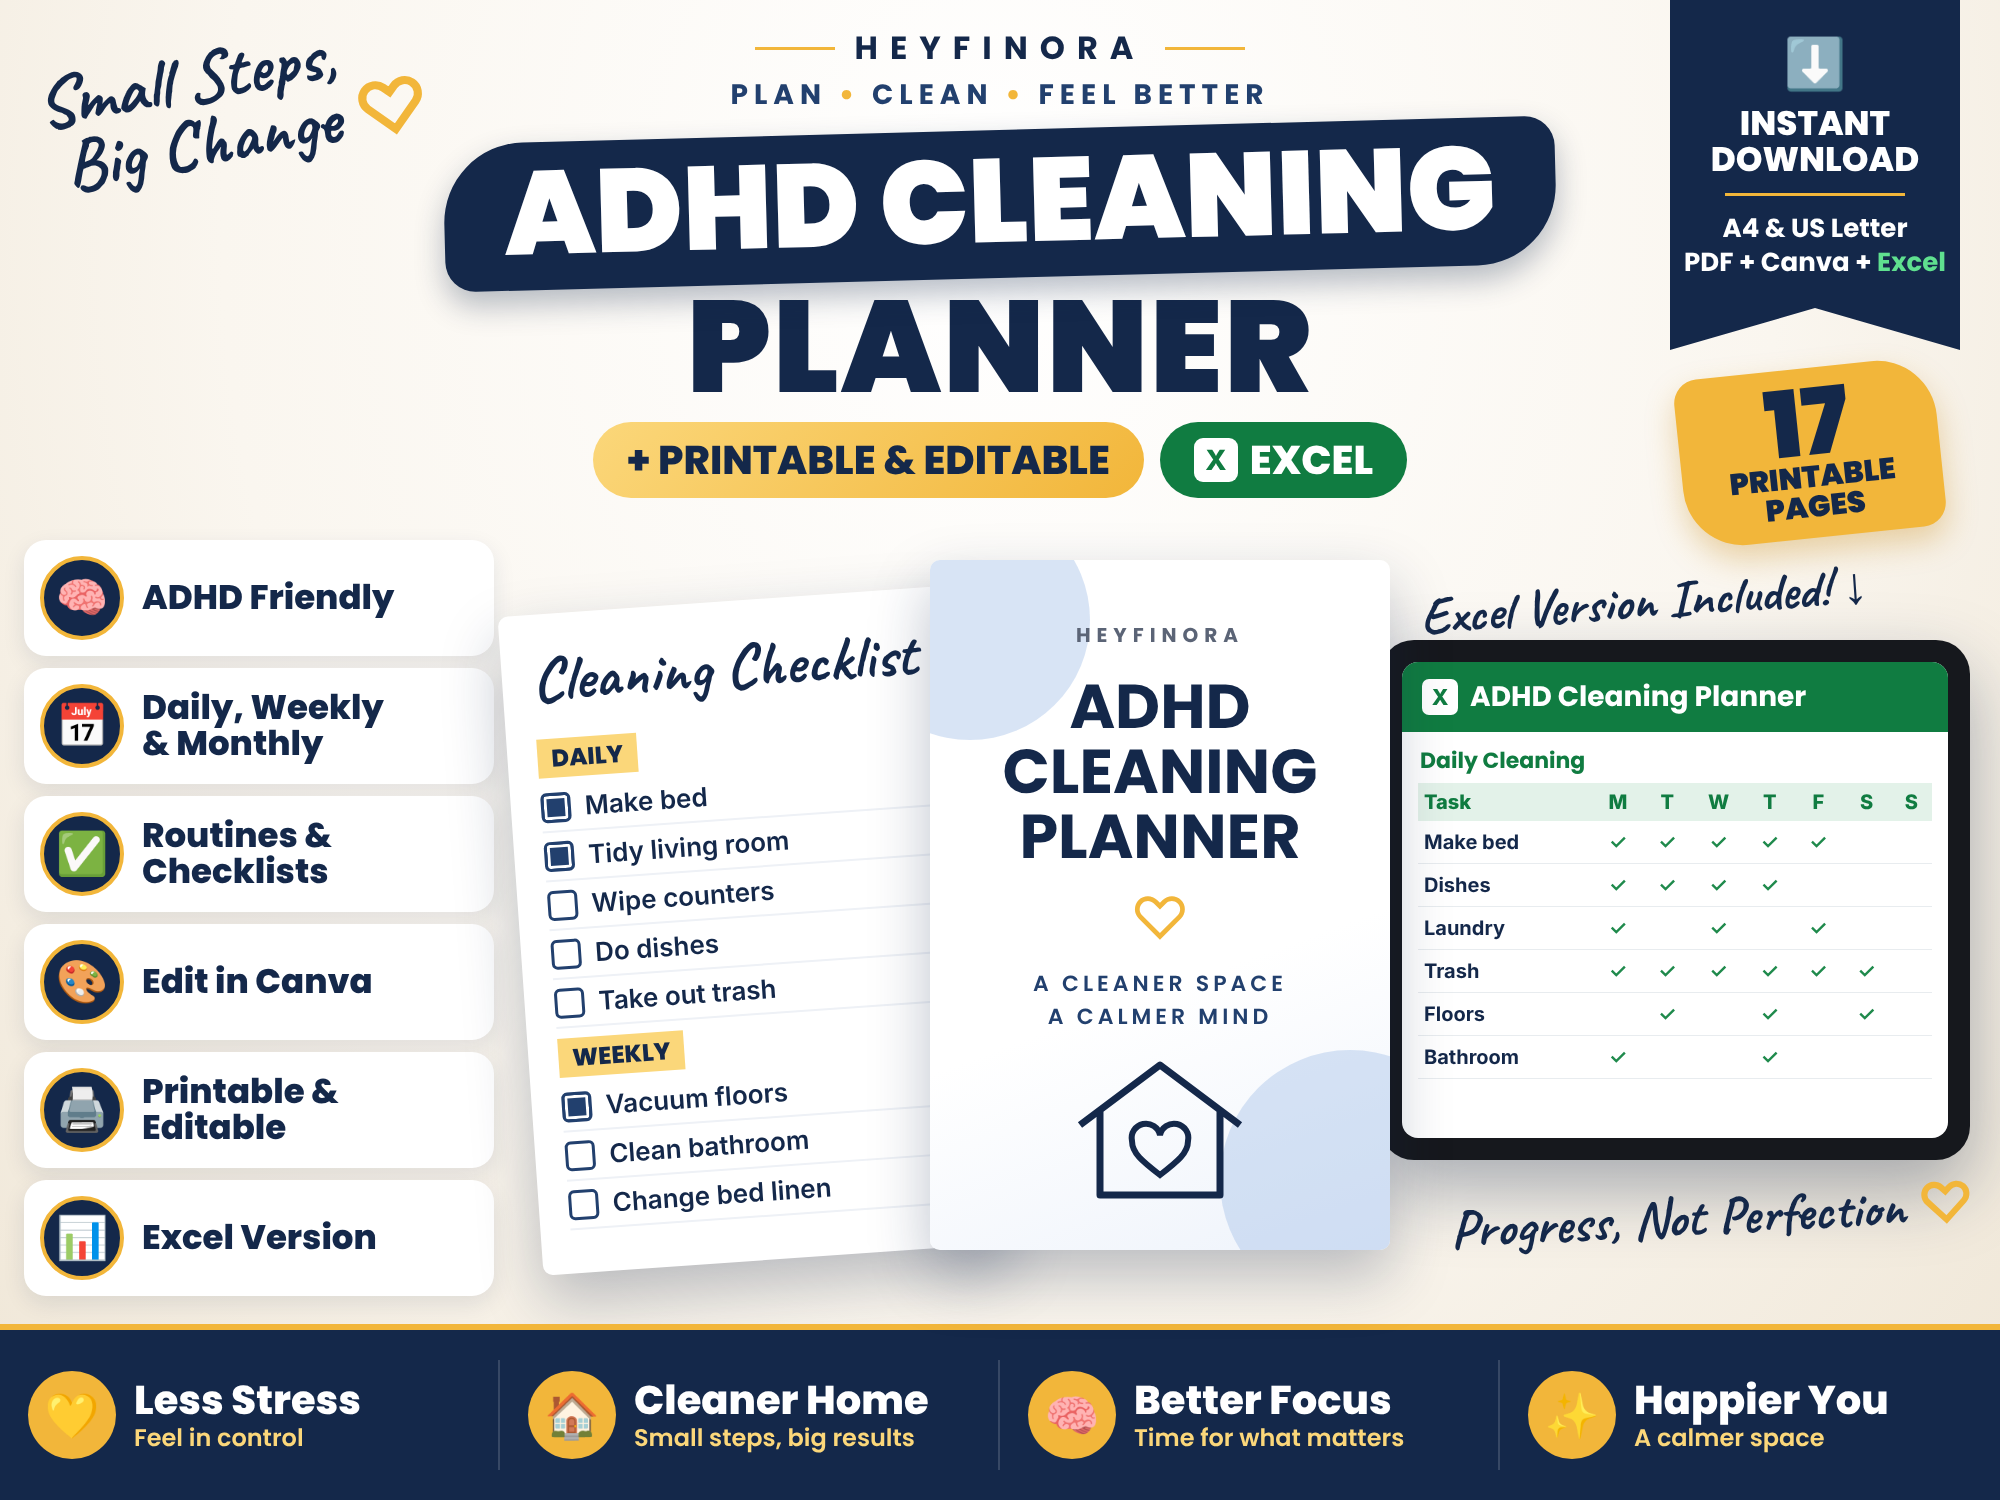
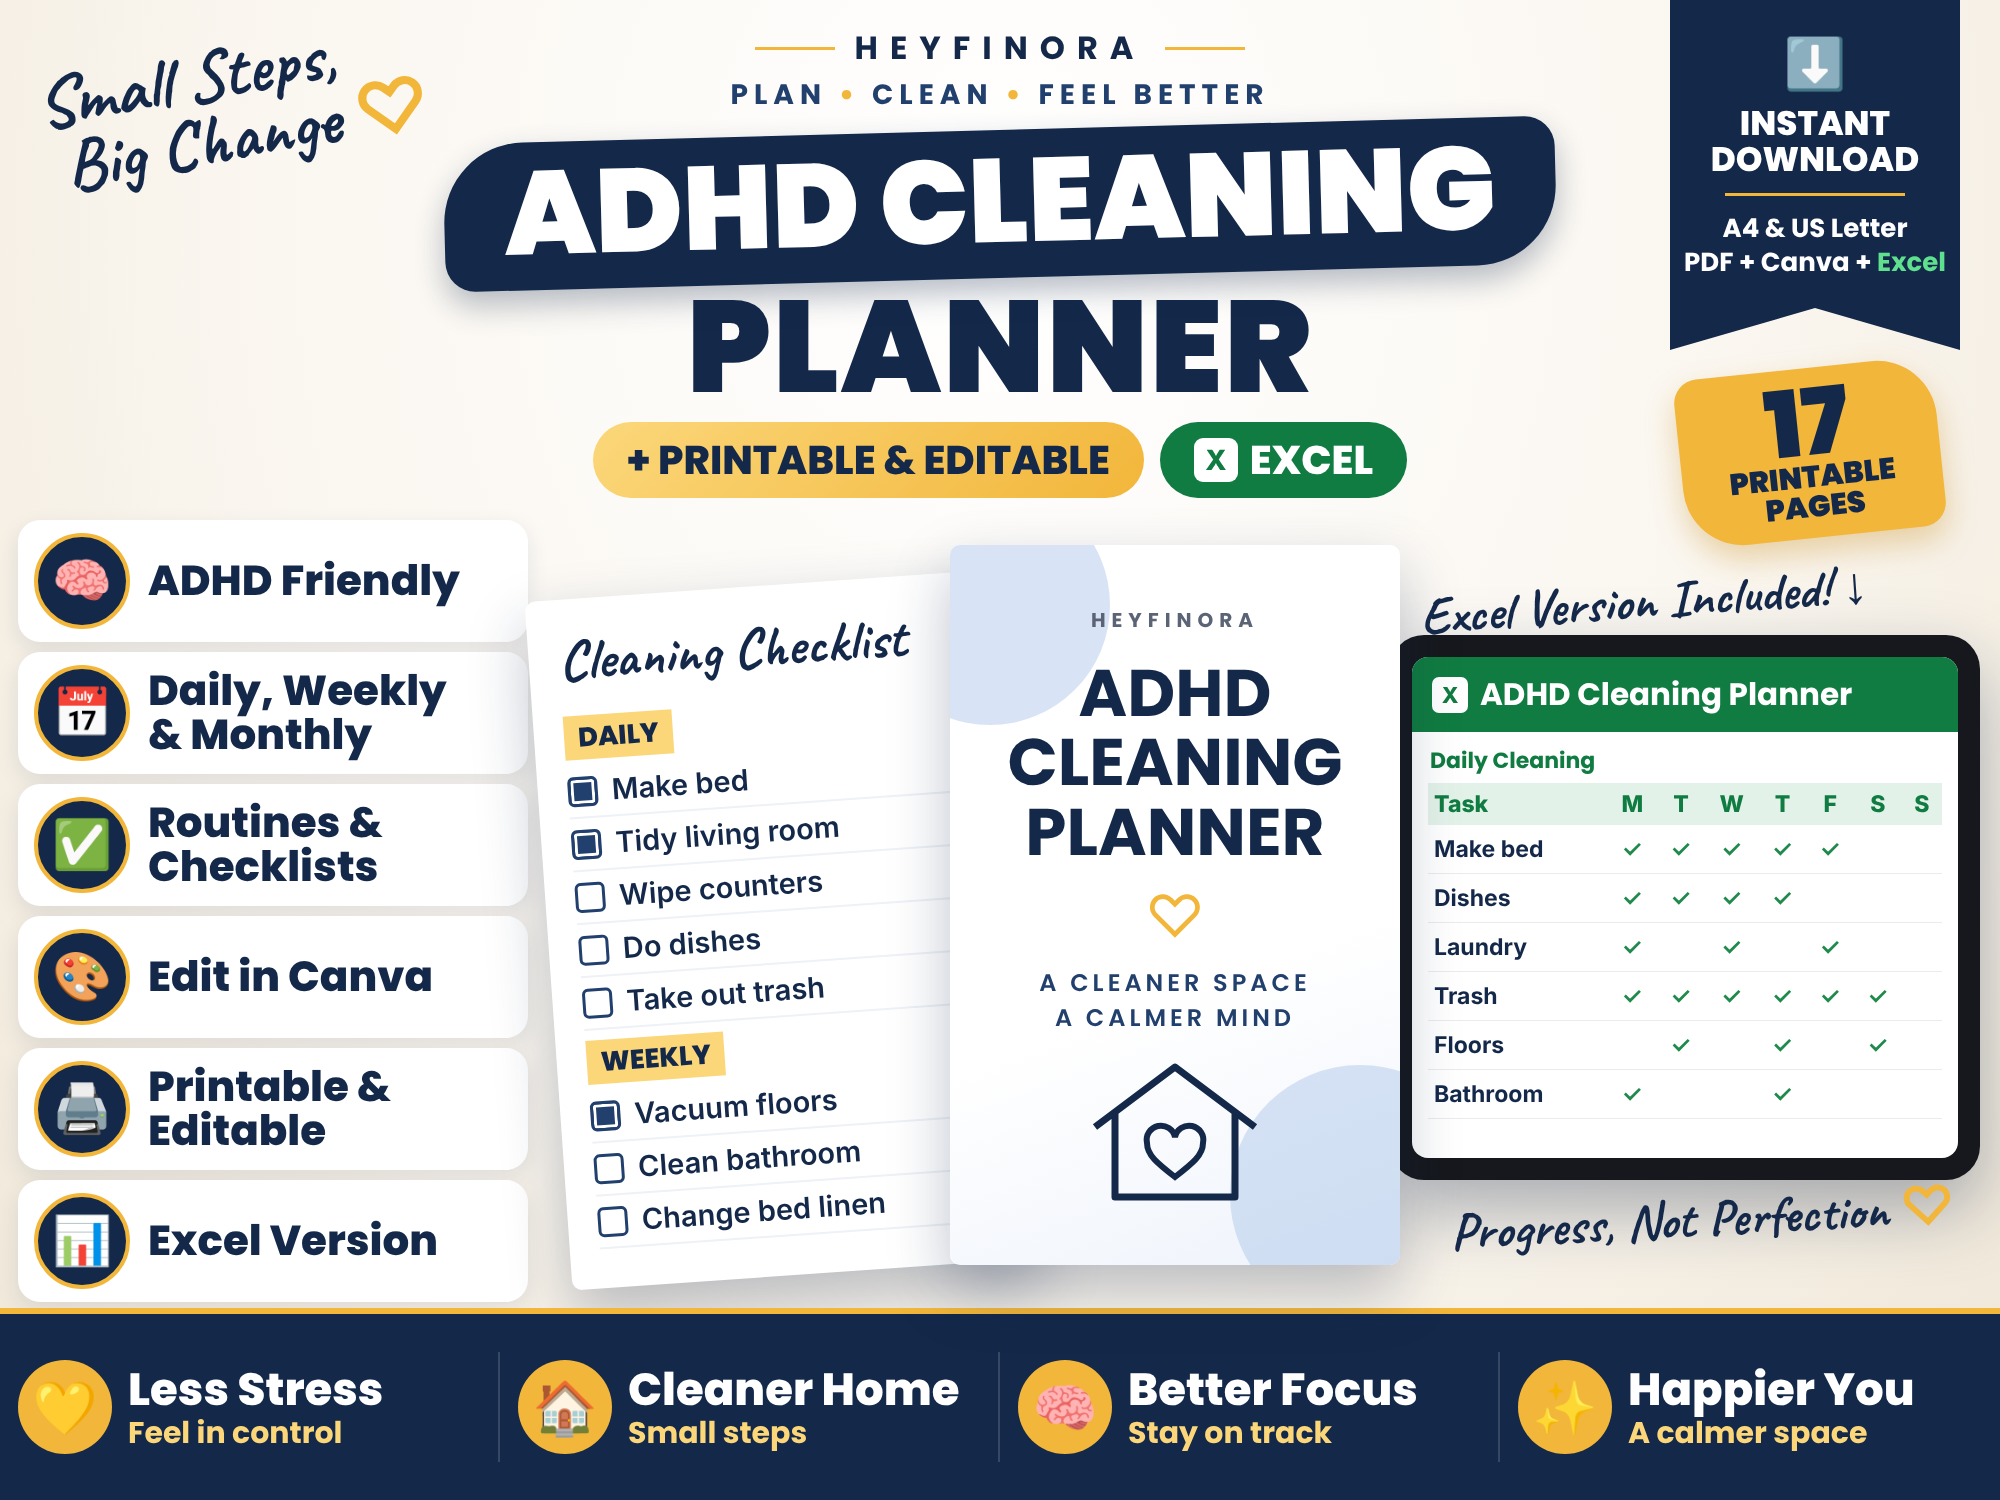
ADHD Cleaning thumbnail: bigger side and bottom text, zoomed pages
Claude-Session: https://claude.ai/code/session_01JXSyMovszCbL9FMwkaUbGU

Changed region(s): [[0.0, 0.3373, 1.0, 0.9813]]

diff --git a/images/src/adhd-cleaning-thumbnail.html b/images/src/adhd-cleaning-thumbnail.html
@@ -27,39 +27,39 @@ body{background:#777;font-family:Inter,sans-serif;color:var(--navy)}
 .badge17{position:absolute;right:60px;top:368px;width:260px;height:170px;background:var(--gold);border-radius:24px 60px 24px 60px;transform:rotate(-6deg);display:grid;place-items:center;text-align:center;color:var(--navy);font-family:Poppins;box-shadow:0 14px 30px rgba(200,140,30,.35);z-index:5}
 .badge17 b{font-size:92px;font-weight:900;line-height:.85;display:block}.badge17 span{font-size:30px;font-weight:900;line-height:1;display:block}
 /* features */
-.feats{position:absolute;left:24px;top:540px;width:470px;display:flex;flex-direction:column;gap:12px}
-.f{display:flex;align-items:center;gap:18px;background:#fff;border-radius:22px;padding:12px 16px;height:116px;box-shadow:0 8px 22px rgba(20,40,74,.1);font-family:Poppins;font-weight:800;font-size:34px;line-height:1.05;color:var(--navy)}
-.f em{font-style:normal;width:84px;height:84px;border-radius:50%;background:var(--navy);display:grid;place-items:center;font-size:42px;flex:none;border:4px solid var(--gold)}
+.feats{position:absolute;left:18px;top:520px;width:510px;display:flex;flex-direction:column;gap:10px}
+.f{display:flex;align-items:center;gap:18px;background:#fff;border-radius:22px;padding:12px 16px;height:122px;box-shadow:0 8px 22px rgba(20,40,74,.1);font-family:Poppins;font-weight:800;font-size:42px;line-height:1.05;color:var(--navy)}
+.f em{font-style:normal;width:96px;height:96px;border-radius:50%;background:var(--navy);display:grid;place-items:center;font-size:48px;flex:none;border:4px solid var(--gold)}
 /* pages */
 .page{position:absolute;background:#fff;border-radius:10px;box-shadow:0 26px 60px rgba(20,40,74,.28);overflow:hidden}
-.ck{left:520px;top:600px;width:470px;height:660px;transform:rotate(-4deg);padding:26px 30px}
-.ck h3{font-family:Caveat;font-size:62px;color:var(--navy);margin-bottom:10px}
-.ck h5{display:inline-block;background:var(--gold2);font-family:Poppins;font-weight:800;font-size:24px;padding:2px 14px;margin:10px 0 6px}
-.ck div{display:flex;align-items:center;gap:14px;font-size:26px;font-weight:600;padding:8px 0;border-bottom:2px solid #EEF1F6}
+.ck{left:548px;top:585px;width:470px;height:690px;transform:rotate(-4deg);padding:26px 30px}
+.ck h3{font-family:Caveat;font-size:56px;color:var(--navy);margin-bottom:10px}
+.ck h5{display:inline-block;background:var(--gold2);font-family:Poppins;font-weight:800;font-size:27px;padding:2px 14px;margin:10px 0 6px}
+.ck div{display:flex;align-items:center;gap:14px;font-size:29px;font-weight:600;padding:8px 0;border-bottom:2px solid #EEF1F6}
 .ck div:before{content:"";width:24px;height:24px;border:3px solid var(--navy2);border-radius:6px;flex:none}
 .ck div.d:before{background:var(--navy2);box-shadow:inset 0 0 0 3px #fff}
-.cv{left:930px;top:560px;width:460px;height:690px;z-index:3;text-align:center;padding-top:60px;background:linear-gradient(160deg,#fff 60%,#EEF3FB)}
+.cv{left:950px;top:545px;width:450px;height:720px;z-index:3;text-align:center;padding-top:60px;background:linear-gradient(160deg,#fff 60%,#EEF3FB)}
 .cv .b1{position:absolute;left:-80px;top:-60px;width:240px;height:240px;border-radius:50%;background:var(--blue);opacity:.45}
 .cv .b2{position:absolute;right:-90px;bottom:-60px;width:260px;height:260px;border-radius:50%;background:var(--blue);opacity:.45}
 .cv small{font-family:Poppins;font-weight:700;font-size:20px;letter-spacing:6px;color:var(--muted);position:relative}
-.cv h2{font-family:Poppins;font-weight:700;font-size:62px;line-height:1.05;margin-top:24px;color:var(--navy);position:relative}
+.cv h2{font-family:Poppins;font-weight:700;font-size:66px;line-height:1.05;margin-top:24px;color:var(--navy);position:relative}
 .cv .h{font-size:58px;color:var(--gold);margin:14px 0}
-.cv p{font-family:Poppins;font-weight:600;font-size:22px;letter-spacing:4px;color:var(--navy2);position:relative}
+.cv p{font-family:Poppins;font-weight:600;font-size:24px;letter-spacing:4px;color:var(--navy2);position:relative}
 /* tablet */
-.tab{position:absolute;left:1380px;top:640px;width:590px;height:520px;background:#16181d;border-radius:34px;padding:22px;box-shadow:0 30px 70px rgba(20,40,74,.35);z-index:2}
+.tab{position:absolute;left:1390px;top:635px;width:590px;height:545px;background:#16181d;border-radius:34px;padding:22px;box-shadow:0 30px 70px rgba(20,40,74,.35);z-index:2}
 .ts{background:#fff;border-radius:16px;height:100%;overflow:hidden}
-.ts .th{background:var(--xl);color:#fff;font-family:Poppins;font-weight:700;font-size:28px;padding:14px 20px;display:flex;align-items:center;gap:12px}
+.ts .th{background:var(--xl);color:#fff;font-family:Poppins;font-weight:700;font-size:31px;padding:14px 20px;display:flex;align-items:center;gap:12px}
 .ts .th i{font-style:normal;background:#fff;color:var(--xl);width:36px;height:36px;border-radius:7px;display:grid;place-items:center;font-family:Inter;font-weight:900;font-size:22px}
 .ts h6{font-family:Poppins;font-size:22px;color:var(--xl);padding:12px 18px 6px}
-table{width:calc(100% - 32px);margin:0 16px;border-collapse:collapse;font-size:20px}
+table{width:calc(100% - 32px);margin:0 16px;border-collapse:collapse;font-size:23px}
 th{background:#E3F2E9;color:var(--xl);padding:7px 6px;font-weight:800;text-align:center}th:first-child{text-align:left}
-td{padding:9px 6px;border-bottom:1px solid #E8ECEF;text-align:center;font-weight:700;color:#1F8A4C}td:first-child{text-align:left;color:var(--navy)}
+td{padding:10px 6px;border-bottom:1px solid #E8ECEF;text-align:center;font-weight:700;color:#1F8A4C}td:first-child{text-align:left;color:var(--navy)}
 .deco{position:absolute;line-height:1;filter:drop-shadow(0 12px 14px rgba(0,0,0,.2))}
 /* strip */
-.strip{position:absolute;left:0;right:0;bottom:0;height:176px;background:var(--navy);display:grid;grid-template-columns:repeat(4,1fr);align-items:center;border-top:6px solid var(--gold)}
-.strip div{display:flex;align-items:center;gap:18px;padding:0 28px;border-right:2px solid rgba(255,255,255,.15);height:110px}.strip div:last-child{border:0}
-.strip em{font-style:normal;width:88px;height:88px;border-radius:50%;background:var(--gold);display:grid;place-items:center;font-size:44px;flex:none}
-.strip p{font-family:Poppins;font-weight:800;font-size:40px;line-height:1.05;color:#fff}.strip p span{display:block;font-weight:600;font-size:24px;color:var(--gold2);margin-top:4px}
+.strip{position:absolute;left:0;right:0;bottom:0;height:192px;background:var(--navy);display:grid;grid-template-columns:repeat(4,1fr);align-items:center;border-top:6px solid var(--gold)}
+.strip div{display:flex;align-items:center;gap:16px;padding:0 18px;border-right:2px solid rgba(255,255,255,.15);height:110px}.strip div:last-child{border:0}
+.strip em{font-style:normal;width:94px;height:94px;border-radius:50%;background:var(--gold);display:grid;place-items:center;font-size:52px;flex:none}
+.strip p{white-space:nowrap;font-family:Poppins;font-weight:800;font-size:45px;line-height:1.05;color:#fff}.strip p span{display:block;font-weight:700;font-size:30px;color:var(--gold2);margin-top:4px}
 </style></head><body>
 <div id="thumb">
   <div class="script" style="left:40px;top:40px;font-size:72px;transform:rotate(-10deg)">Small Steps,<br>&nbsp;Big Change <span style="color:var(--gold)">♡</span></div>
@@ -115,12 +115,12 @@ td{padding:9px 6px;border-bottom:1px solid #E8ECEF;text-align:center;font-weight
     </table>
   </div></div>
   
-  <span class="script" style="left:1450px;top:1192px;font-size:54px;transform:rotate(-3deg);z-index:5;white-space:nowrap">Progress, Not Perfection <span style="color:var(--gold)">♡</span></span>
+  <span class="script" style="left:1450px;top:1196px;font-size:52px;transform:rotate(-3deg);z-index:5;white-space:nowrap">Progress, Not Perfection <span style="color:var(--gold)">♡</span></span>
 
   <div class="strip">
     <div><em>💛</em><p>Less Stress<span>Feel in control</span></p></div>
-    <div><em>🏠</em><p>Cleaner Home<span>Small steps, big results</span></p></div>
-    <div><em>🧠</em><p>Better Focus<span>Time for what matters</span></p></div>
+    <div><em>🏠</em><p>Cleaner Home<span>Small steps</span></p></div>
+    <div><em>🧠</em><p>Better Focus<span>Stay on track</span></p></div>
     <div><em>✨</em><p>Happier You<span>A calmer space</span></p></div>
   </div>
 </div>
